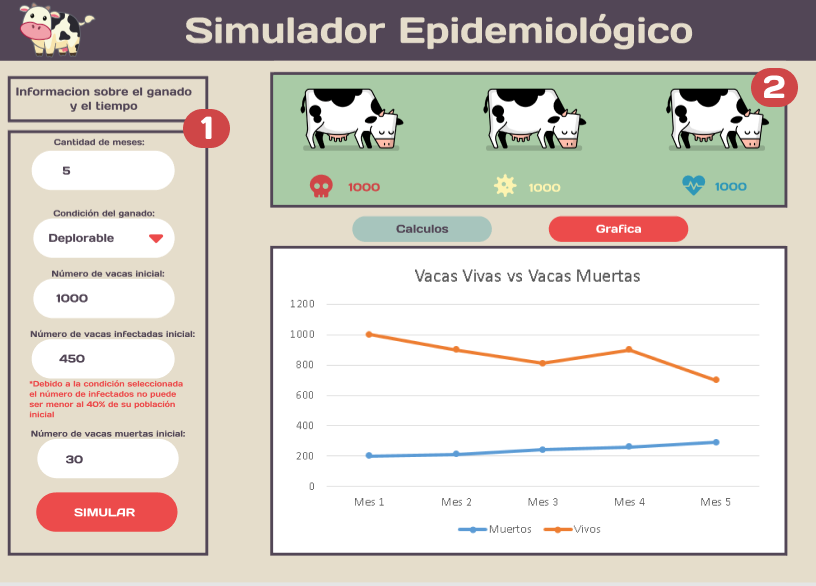
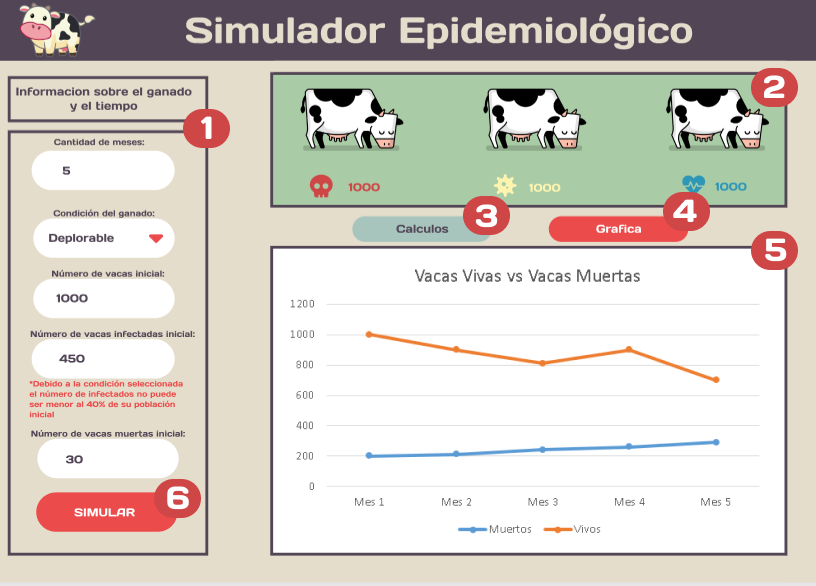
toques finales

diff --git a/src/views/Guia.vue b/src/views/Guia.vue
@@ -26,7 +26,7 @@
                 y sus respectivas tasas.
                 <v-row>
                   <img
-                    src="../assets/modelito.png"
+                    src="../assets/modelo.png"
                     max-width="100"
                     class="image"
                   />
@@ -38,28 +38,70 @@
         <v-row>
           <v-col cols="12">
             <v-card class="cajituso">
-              <v-card-title>Uso</v-card-title>
+              <v-card-title><h2>Uso</h2></v-card-title>
+              <br />
               <v-card-text>
                 <v-row align="center" justify="space-between">
                   <v-col cols="4">
                     <img src="../assets/ejemplo.png" class="simulador" />
                   </v-col>
                   <v-col cols="6">
-                    <div class="text-right">
-                      <p>
+                    <div class="text-left">
+                      <h3>
                         1.- Cuadro de variables: Puede colocar diferentes
-                        valores para probar. En el caso de seleccionar la
-                        condicion del ganado existen 2 condiciones: Optimo:
-                        Significa una buena base alimenticia, buena higiene,
-                        buena gestion del ganado y existe vacunación.
-                        Deplorable: Significa mala alimentacion, mal higiene, y
-                        no se vacuna a las vacas.
-                      </p>
+                        valores para probar.
+                      </h3>
+                      <br />
+                      En el caso de seleccionar la condicion del ganado existen
+                      2 condiciones: Optimo: Significa una buena base
+                      alimenticia, buena higiene, buena gestion del ganado y
+                      existe vacunación. Deplorable: Significa mala
+                      alimentacion, mal higiene, y no se vacuna a las vacas.
                       <p class="red">
                         En el caso de deplorable no puede colocar un valor menor
                         al 40% del total de las vacas en los infectados y en las
                         muertes debe ser mayor al 80% de las infectadas
                       </p>
+                      <br />
+                      <h3>2.- Cuadro de Estado de las Vacas.</h3>
+                      <br />
+                      En este apartado se presentan iconos de vacas como una
+                      ayuda visual del estado actual de los cálculos, cada una
+                      representando una categoría: "Vacas muertas", "Vacas
+                      infectadas" y "Vacas vivas". En ese orden.
+
+                      <br />
+
+                      <h3>3.- Botón de cálculos.</h3>
+                      <br />
+                      Al hacer clic en él, se activa el proceso de cálculo y se
+                      presentan los resultados numéricos basados en los datos
+                      ingresados.
+
+                      <br />
+
+                      <h3>4.- Botón de gráficos.</h3>
+                      <br />
+                      Al hacer clic en él, se generan gráficos que muestran la
+                      evolución de las vacas vivas, enfermas y muertas a lo
+                      largo del tiempo en un período de meses.
+
+                      <br />
+
+                      <h3>
+                        5.- Cuadro de Visualización de Gráficos/Resultados.
+                      </h3>
+                      <br />
+                      Este cuadro proporciona un espacio donde se muestran los
+                      gráficos generados o los resultados numéricos de los
+                      cálculos, según la selección del usuario.
+
+                      <br />
+
+                      <h3>6.- Botón de Simular.</h3>
+                      <br />
+                      Este botón activa el proceso de simulación en el simulador
+                      epidemiológico de vacas.
                     </div>
                   </v-col>
                 </v-row>
@@ -117,11 +159,13 @@ body {
 .image {
   margin-bottom: 10px;
   margin-top: 15px;
+  width: 100%;
 }
 
 .simulador {
-  width: 150%;
+  width: 155%;
   margin-top: 10px;
+  height: 40rem;
 }
 
 .number {
